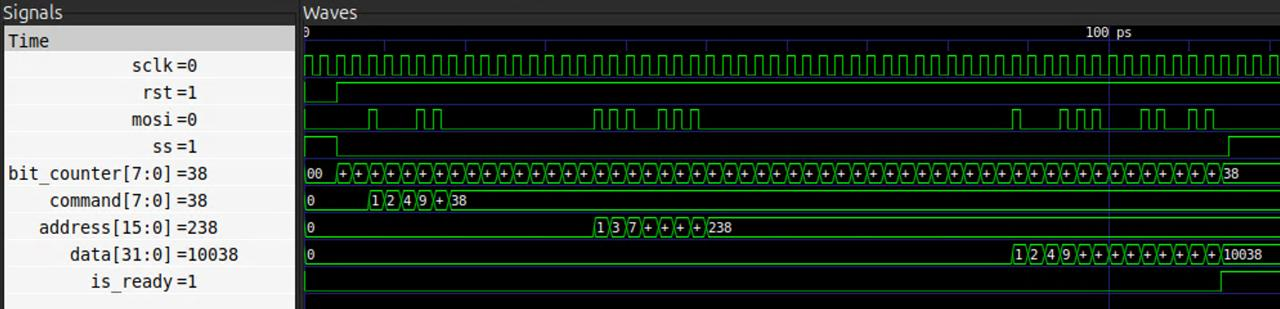
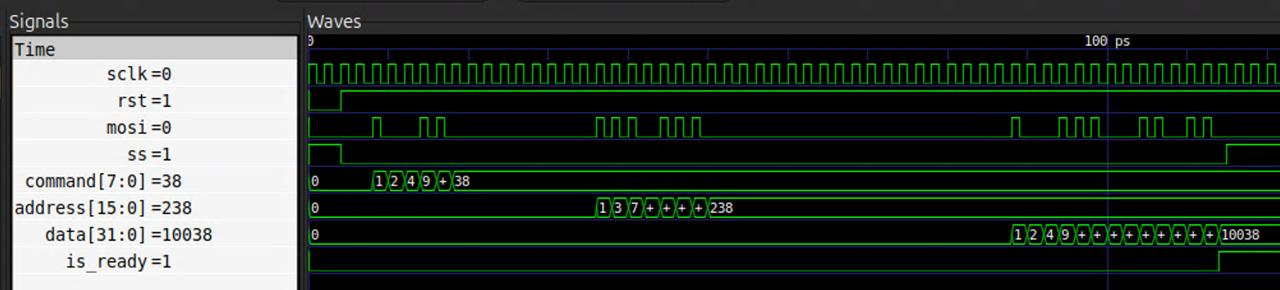
Added screenshot into report

diff --git a/sem4/README.md b/sem4/README.md
@@ -22,6 +22,9 @@
 
 Байты передаются по соглашению: MSB.
 
-Ниже приведен скриншот выполнения кода в ПО gtkwave.
+Ниже приведен скриншот выполнения кода в ПО gtkwave. На вход прдаются следующие значения:
+- command = 38
+- address = 238
+- data = 10038
 
 ![Скриншот из GTKWave](images_for_report/signals_from_gtkwave.jpeg "Скриншот из GTKWave")
